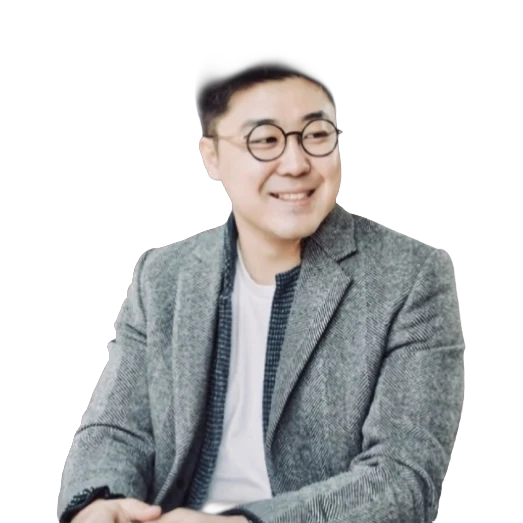
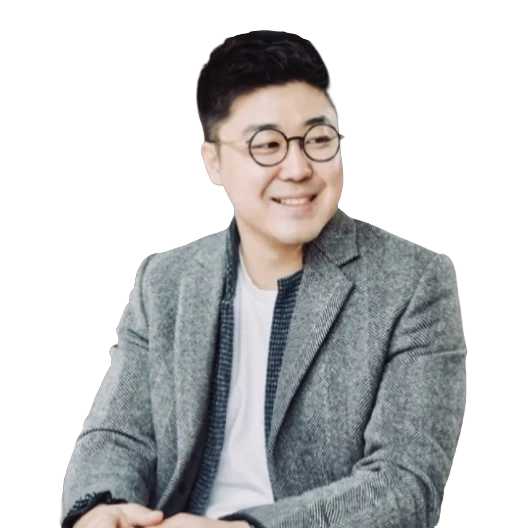
디자인 변경(백아람 등)

diff --git a/js/content.js b/js/content.js
@@ -89,7 +89,7 @@ window.WCIF_CONTENT = {
     { "featured": false, "img": "images/speakers/yuko-obuchi.webp", "kor": { "name": "오부치 유코", "title": "일본 국회 중의원" }, "eng": { "name": "Yuko Obuchi", "title": "Member, House of Representatives, Japan" } },
     { "featured": false, "img": "images/speakers/kim-sanghyup.webp", "kor": { "name": "김상협", "title": "GGGI 사무총장" }, "eng": { "name": "Kim Sang-hyup", "title": "Director-General, GGGI" } },
     { "featured": false, "img": "images/speakers/yoon-minho.webp", "kor": { "name": "윤민호", "title": "일본국제금융정보센터(JCIF) 특임연구위원실장" }, "eng": { "name": "Yoon Min-ho", "title": "Head of Special Research, JCIF" } },
-    { "featured": false, "img": "https://wcif.world/wp-content/uploads/2026/05/Sub_19.시부카와시.png", "kor": { "name": "시부카와시", "title": "일본 시부카와시" }, "eng": { "name": "Shibukawa City", "title": "Shibukawa, Japan" } },
+    { "featured": false, "noshape": true, "img": "https://wcif.world/wp-content/uploads/2026/05/Sub_19.시부카와시.png", "kor": { "name": "시부카와시", "title": "일본 시부카와시" }, "eng": { "name": "Shibukawa City", "title": "Shibukawa, Japan" } },
     { "featured": false, "img": "images/speakers/eom-chanyong.webp", "kor": { "name": "엄찬용", "title": "트립서포터즈 대표" }, "eng": { "name": "Eom Chan-yong", "title": "CEO, Trip Supporters" } },
     { "featured": false, "img": "images/speakers/park-yoonjin.webp", "kor": { "name": "박윤진", "title": "오피스박김 대표" }, "eng": { "name": "Park Yoon-jin", "title": "CEO, Office ParkKim" } },
     { "featured": false, "img": "images/speakers/bae-sunghyuk.webp", "kor": { "name": "배성혁", "title": "DIMF 집행위원장" }, "eng": { "name": "Bae Sung-hyuk", "title": "Executive Director, DIMF" } },

diff --git a/js/render.js b/js/render.js
@@ -129,7 +129,7 @@
   function speakerCard(s) {
     var p = s[L] || s.kor;
     return '<article class="speaker-card" data-name="' + esc(s.kor.name) + '" role="button" tabindex="0">' +
-      '<div class="speaker-photo"><img src="' + esc(asset(s.img)) + '" alt="' + esc(p.name) + '" loading="lazy"></div>' +
+      '<div class="speaker-photo' + (s.noshape ? ' no-shape' : '') + '"><img src="' + esc(asset(s.img)) + '" alt="' + esc(p.name) + '" loading="lazy"></div>' +
       '<div class="speaker-info"><h3>' + esc(p.name) + '</h3><p>' + esc(p.title) + '</p></div>' +
       '</article>';
   }
@@ -154,7 +154,7 @@
       '<div class="sp-modal" role="dialog" aria-modal="true" aria-label="' + esc(p.name) + '">' +
         '<button class="sp-modal-close" type="button" aria-label="닫기">×</button>' +
         '<div class="sp-modal-body">' +
-          '<div class="sp-modal-photo"><img src="' + esc(asset(s.img)) + '" alt="' + esc(p.name) + '"></div>' +
+          '<div class="sp-modal-photo' + (s.noshape ? ' no-shape' : '') + '"><img src="' + esc(asset(s.img)) + '" alt="' + esc(p.name) + '"></div>' +
           '<div class="sp-modal-text">' +
             '<div class="sp-modal-label">' + (isEn ? 'Speaker' : '연사 소개') + '</div>' +
             '<h3>' + esc(p.name) + '</h3>' +

diff --git a/css/style.css b/css/style.css
@@ -305,6 +305,8 @@ ul { list-style: none; }
   transition: transform .35s;
 }
 .speaker-card:hover .speaker-photo img { transform: translateY(-5px); }
+.speaker-photo.no-shape::before, .sp-modal-photo.no-shape::before { display: none; }
+.speaker-photo.no-shape img, .sp-modal-photo.no-shape img { object-fit: cover; object-position: center; border-radius: 4px; }
 .speaker-photo .ph-fallback {
   position: absolute; inset: 0; display: flex; align-items: center; justify-content: center;
   font-family: var(--display); font-stretch: 122%; font-weight: 900;
